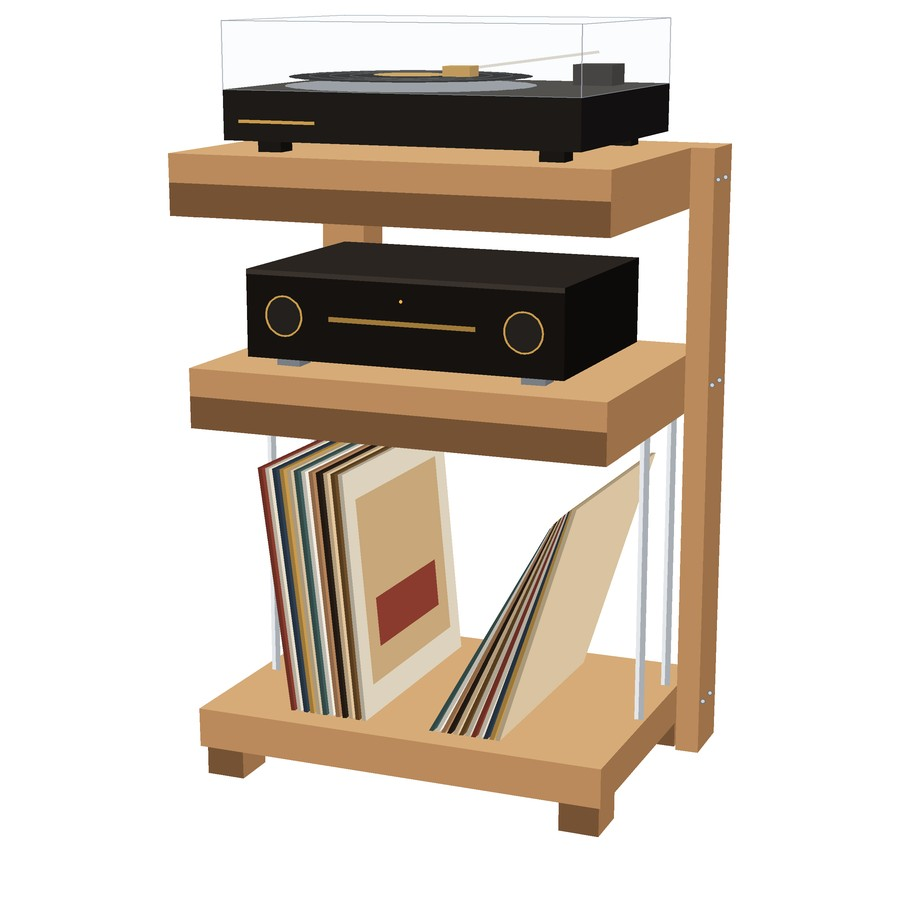
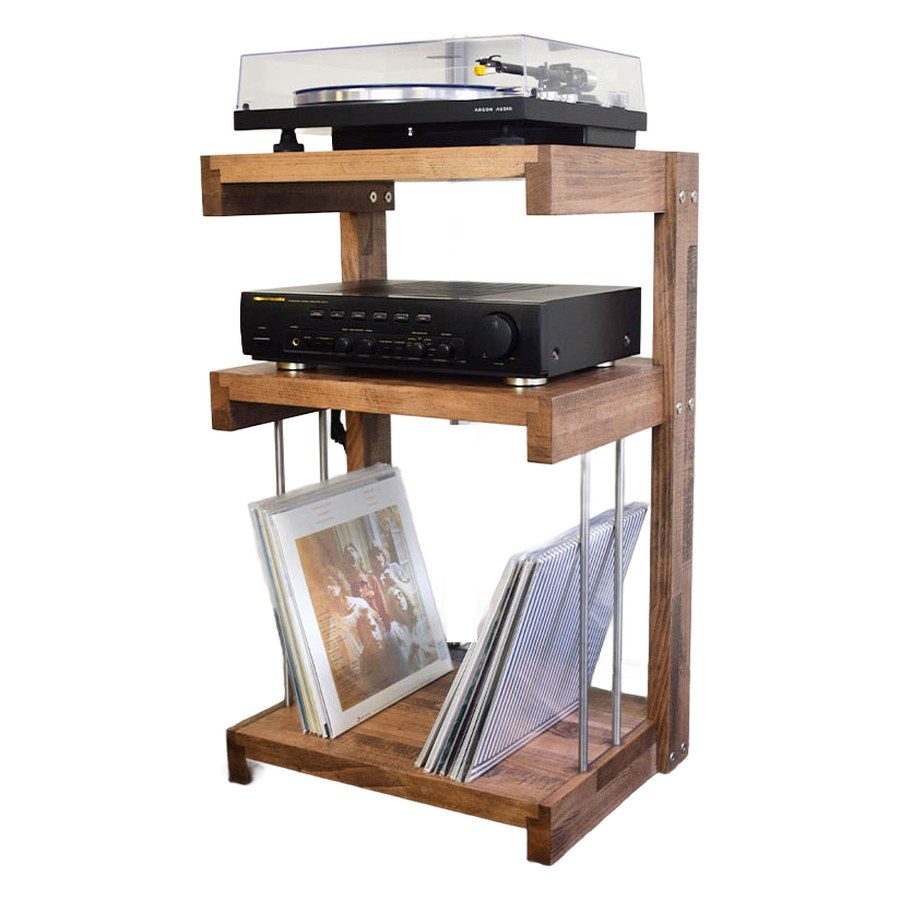
Vinyl: al posto del disegno, foto del mobile con impianto scontornata
Faggio e Noce Canaletto, scambiate dal pulsante dell'essenza.

Claude-Session: https://claude.ai/code/session_015wvKsictn1Z6RtpeGcB9hV

diff --git a/extrasound-vinyl.html b/extrasound-vinyl.html
@@ -46,7 +46,7 @@
   <p class="sub">Tre livelli pensati sul peso e sulle misure degli apparecchi.</p>
   <div class="duo" style="margin-bottom:0;align-items:center">
     <div class="cab room" id="cab">
-      <img id="cabimg" src="images/vinyl-disegno-faggio.jpg?v=3" alt="Illustrazione del mobile Extrasound Vinyl ricalcata dal mobile reale: giradischi sul piano superiore, amplificatore sul ripiano centrale, vinili sul ripiano basso tra quattro tondini in acciaio" width="900" height="900">
+      <img id="cabimg" src="images/vinyl-disegno-faggio.jpg?v=4" alt="Extrasound Vinyl con giradischi sul piano superiore, amplificatore sul ripiano centrale e vinili sul ripiano basso" width="900" height="900">
     </div>
     <div>
   <div class="levels">
@@ -92,6 +92,6 @@
 <footer><div class="wrap">© <span class="yr"></span> Fabrizio Berlati</div></footer>
 
 <script src="site.js?v=2"></script>
-<script src="prod.js?v=7"></script>
+<script src="prod.js?v=8"></script>
 </body>
 </html>

diff --git a/prod.js b/prod.js
@@ -28,7 +28,7 @@ document.querySelectorAll('.gallery').forEach(g=>{
     document.querySelectorAll('.wd').forEach(p=>p.style.fill=e.c[+p.dataset.t||0]);
     document.querySelectorAll('[data-v]').forEach(s=>{const v=s.dataset.v;s.textContent=v==='h0'?e.h[0]:v==='h1'?e.h[1]:e[v]});
     document.querySelectorAll('[data-e]').forEach(b=>b.setAttribute('aria-pressed',b.dataset.e===k));
-    const ci=document.getElementById('cabimg');if(ci)ci.src='images/vinyl-disegno-'+k+'.jpg?v=3';
+    const ci=document.getElementById('cabimg');if(ci)ci.src='images/vinyl-disegno-'+k+'.jpg?v=4';
     const hi=document.querySelector('#vhero img');if(hi)hi.src=k==='noce'?'images/vinyl-noce-hifi.jpg':'images/vinyl-faggio-pro.jpg';
   };
   document.querySelectorAll('[data-e]').forEach(b=>b.onclick=()=>set(b.dataset.e));
